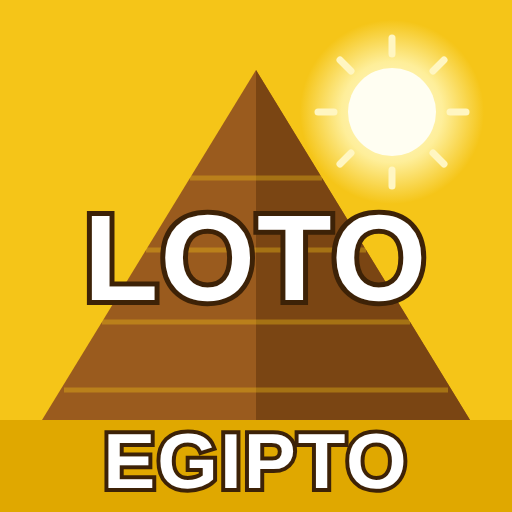
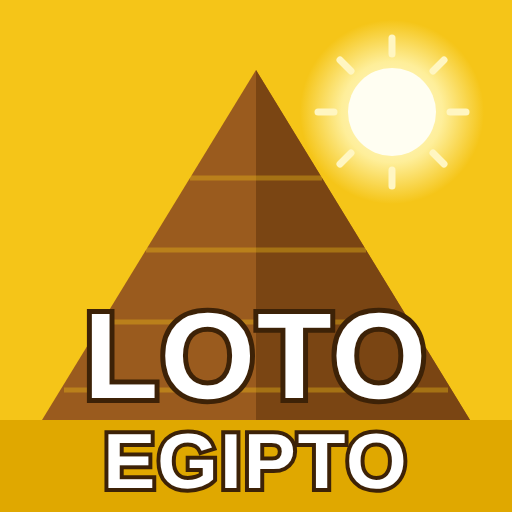
Icono: LOTO más abajo, junto a EGIPTO

Changed region(s): [[0.1562, 0.4062, 0.8438, 0.8125]]

diff --git a/index.html b/index.html
@@ -7,9 +7,9 @@
 <meta name="apple-mobile-web-app-capable" content="yes">
 <meta name="apple-mobile-web-app-title" content="Loto Egipto">
 <title>Loto Egipto</title>
-<link rel="manifest" href="manifest.json?v=3">
-<link rel="apple-touch-icon" href="apple-touch-icon.png?v=3">
-<link rel="icon" href="icon-192.png?v=3">
+<link rel="manifest" href="manifest.json?v=4">
+<link rel="apple-touch-icon" href="apple-touch-icon.png?v=4">
+<link rel="icon" href="icon-192.png?v=4">
 <meta name="apple-mobile-web-app-status-bar-style" content="default">
 <style>
 :root{
